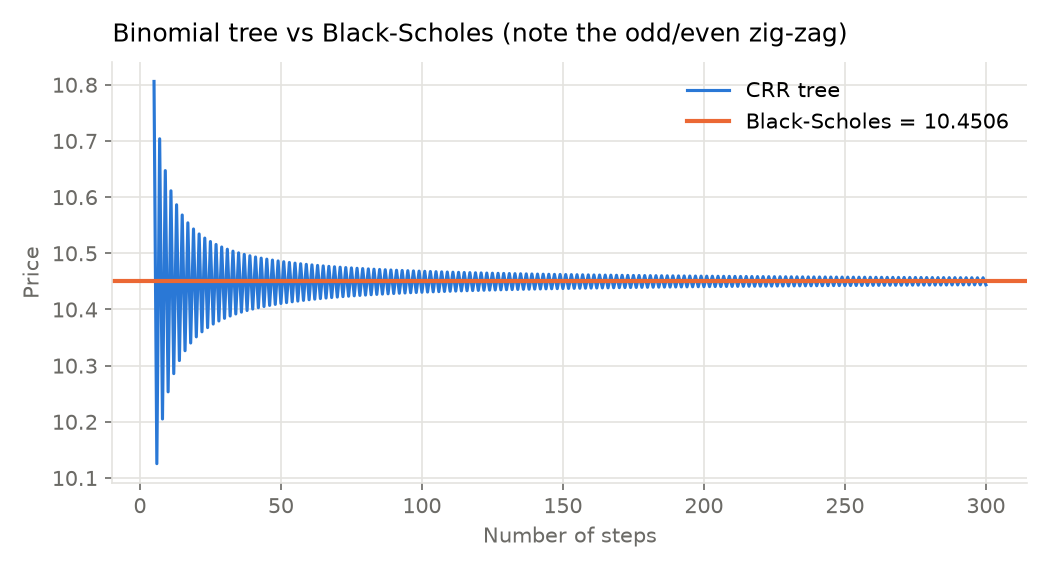
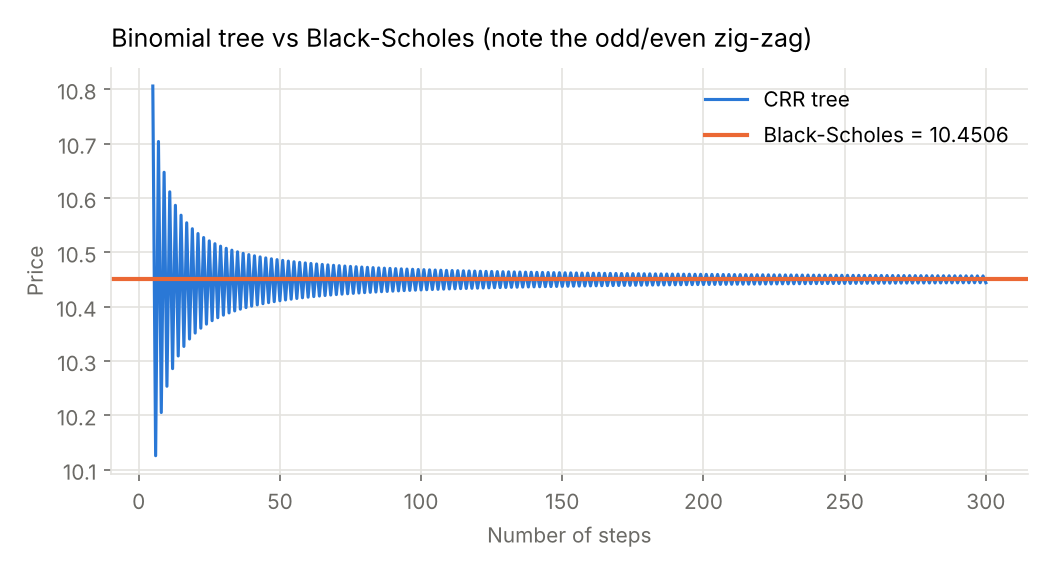
final commit with clean readme

Changed region(s): [[0.0, 0.1193, 0.9752, 0.9544], [0.0914, 0.0298, 0.8229, 0.0895]]

diff --git a/scripts/make_figures.py b/scripts/make_figures.py
@@ -15,4 +15,6 @@ out.mkdir(exist_ok=True)
 plots.mc_variance_reduction(*params, seed=42).savefig(out / "mc_variance_reduction.png", dpi=150)
 plots.binomial_convergence(*params).savefig(out / "binomial_convergence.png", dpi=150)
 plots.greeks_vs_spot(*params).savefig(out / "greeks_vs_spot.png", dpi=150)
+plots.mc_convergence(*params, seed=42).savefig(out / "mc_convergence.png", dpi=150)
+plots.price_vs_spot(*params).savefig(out / "price_vs_spot.png", dpi=150)
 print("saved plots to", out)

diff --git a/README.md b/README.md
@@ -1,1 +1,191 @@
-#options-princing-engine
+# Option Pricing Engine
+
+[![tests](https://github.com/carlmonnaert/options-pricing-engine/actions/workflows/tests.yml/badge.svg)](https://github.com/carlmonnaert/options-pricing-engine/actions/workflows/tests.yml)
+[![Open in Streamlit](https://static.streamlit.io/badges/streamlit_badge_black_white.svg)](https://YOUR-APP.streamlit.app)
+![python](https://img.shields.io/badge/python-3.10%20%7C%203.11%20%7C%203.12-blue)
+
+A small Python library that prices European and American options three independent ways, Black-Scholes, a Cox-Ross-Rubinstein binomial tree and Monte Carlo simulation, and checks that they agree. It comes with a Streamlit dashboard to play with the inputs and watch the methods converge.
+
+**Live demo:** https://YOUR-APP.streamlit.app
+
+![Variance reduction](docs/mc_variance_reduction.png)
+
+*Same number of simulated paths, two estimators. Antithetic variates plus a control variate cut the Monte Carlo variance by about 28x for an at-the-money call.*
+
+## Features
+
+- **Black-Scholes** prices and the five greeks (delta, gamma, vega, theta, rho), with a continuous dividend yield
+- **Binomial tree** (CRR), vectorised with numpy, with European or American exercise
+- **Monte Carlo** with a standard error and 95% confidence interval, plus two variance reduction techniques: antithetic variates and a control variate
+- **Finite-difference greeks** that work with any of the three pricers, used to check the analytic formulas. For Monte Carlo, the bumped prices reuse the same random numbers
+- **51 tests** run on every push, on Python 3.10 to 3.12
+- **A Streamlit app** with sliders for every input, a greeks comparison table and convergence charts
+
+No market data or API keys needed: every input is a parameter.
+
+## Do the three methods agree?
+
+Prices for a few contracts. The tree uses 1,000 steps; Monte Carlo uses 1,000,000 paths with both variance reduction techniques, shown with its standard error.
+
+| Contract (S, K, T, r, σ, q) | Black-Scholes | Binomial tree | Monte Carlo | American (tree) |
+| --- | --- | --- | --- | --- |
+| ATM call (100, 100, 1y, 5%, 20%, 0) | 10.4506 | 10.4486 | 10.4484 ± 0.0028 | 10.4486 |
+| OTM call (100, 120, 6m, 3%, 30%, 1%) | 2.6970 | 2.6980 | 2.6979 ± 0.0014 | 2.6980 |
+| ITM put (100, 120, 1y, 5%, 25%, 0) | 19.1729 | 19.1745 | 19.1727 ± 0.0015 | 21.1753 |
+| Short-dated put (50, 55, 3m, 0%, 45%, 0) | 7.6162 | 7.6168 | 7.6156 ± 0.0009 | 7.6168 |
+
+The first row is the textbook example from Hull (10.4506). Two things in the last column are worth noticing:
+
+- The American call is worth exactly the same as the European one. Without dividends, exercising a call early is never optimal.
+- The in-the-money put is worth 2.00 more as an American option: exercising early gets you the 120 strike now, and you earn 5% interest on it. In the last row the rate is zero, so there is no interest to earn by exercising early, and the American and European puts are worth the same.
+
+## Quick start
+
+```bash
+git clone https://github.com/carlmonnaert/options-pricing-engine.git
+cd options-pricing-engine
+python -m venv .venv && source .venv/bin/activate
+pip install -r requirements.txt
+
+streamlit run app.py   # dashboard at http://localhost:8501
+pytest                 # 51 passed
+```
+
+Using the library directly:
+
+```python
+from optionpricer import bs_price, bs_greeks, binomial_price, mc_price, fd_greeks
+
+bs_price(100, 100, 1.0, 0.05, 0.20, "call")                       # 10.4506
+bs_greeks(100, 100, 1.0, 0.05, 0.20, "call").delta                # 0.6368
+
+binomial_price(100, 110, 1.0, 0.08, 0.20, "put", american=True)   # 11.13
+
+res = mc_price(100, 100, 1.0, 0.05, 0.20, "call", n_path=200_000,
+               control_variate=True, seed=42)
+res.price, res.std_error, res.ci95
+
+# greeks by bump-and-reprice, here on top of Monte Carlo
+fd_greeks(100, 100, 1.0, 0.05, 0.20, "call", pricer=mc_price,
+          rel_bump=1e-2, n_path=200_000, seed=11).delta
+```
+
+Arguments are always `S, K, T, r, sigma, option_type, q`, with rates and volatility as decimals (5% is `0.05`) and `T` in years.
+
+## How it works
+
+### Black-Scholes
+
+The closed-form price of a European call with dividend yield q:
+
+$$C = S e^{-qT} N(d_1) - K e^{-rT} N(d_2), \qquad d_{1,2} = \frac{\ln(S/K) + (r - q \pm \tfrac{1}{2}\sigma^2)T}{\sigma\sqrt{T}}$$
+
+The put follows from put-call parity, $C - P = S e^{-qT} - K e^{-rT}$, which the tests check to $10^{-10}$. N(d₂) is the risk-neutral probability that the call ends in the money.
+
+![Call value vs spot](docs/price_vs_spot.png)
+
+The gap between today's value and the payoff at expiry is the option's time value.
+
+### Binomial tree
+
+Time to maturity is split into N steps. At each step the stock moves up by $u = e^{\sigma\sqrt{\Delta t}}$ or down by $d = 1/u$, with the risk-neutral probability
+
+$$p = \frac{e^{(r-q)\Delta t} - d}{u - d}$$
+
+Starting from the payoffs at expiry, each node's value is the discounted average of its two children. The whole tree is never stored: one numpy array holds the current time slice, and stepping back is a single vectorised line,
+
+```python
+values = disc * (p * values[:-1] + (1 - p) * values[1:])
+```
+
+For American options, each node also takes the larger of that value and exercising immediately. A 500-step tree prices in a couple of milliseconds.
+
+![Binomial convergence](docs/binomial_convergence.png)
+
+The price converges at rate $O(1/N)$ but zig-zags between odd and even N, because the strike falls in a different place relative to the final nodes. Averaging N and N+1 removes most of it, which is what the tests do.
+
+### Monte Carlo
+
+Under geometric Brownian motion the terminal price can be sampled directly, so European options need no time stepping:
+
+$$S_T = S \exp\left(\left(r - q - \tfrac{1}{2}\sigma^2\right)T + \sigma\sqrt{T}\,Z\right), \qquad Z \sim N(0, 1)$$
+
+The price is the discounted average payoff, and the error shrinks like $1/\sqrt{n}$: 100 times more paths for 10 times more precision.
+
+![Monte Carlo convergence](docs/mc_convergence.png)
+
+Two variance reduction techniques make it much cheaper to get a precise answer:
+
+- **Antithetic variates.** Each draw Z is paired with −Z. A high outcome and a low outcome are averaged together, so much of the noise cancels.
+- **Control variate.** The discounted terminal stock price has a known expectation, $S e^{-qT}$, and moves with the payoff. Each estimate is corrected by $\beta$ times the stock's sampling error, with $\beta = \mathrm{Cov}(X, Y) / \mathrm{Var}(X)$, which removes most of the remaining noise without adding bias.
+
+Standard error for the ATM call with 100,000 paths and the same seed:
+
+| Estimator | Std. error | Variance reduction |
+| --- | --- | --- |
+| Plain Monte Carlo | 0.0464 | 1x |
+| Antithetic variates | 0.0328 | 2.0x |
+| Control variate | 0.0177 | 6.9x |
+| Both | 0.0088 | 27.8x |
+
+### Greeks
+
+Analytic greeks come from differentiating the Black-Scholes formula. `fd_greeks` computes the same five by bumping each input up and down and repricing (central differences), so it works with any pricer. On the ATM call the two agree to better than 2 parts in a million.
+
+For Monte Carlo the bumped prices must reuse the same random numbers (same seed). Otherwise the noise between two runs is much larger than the price change being measured, and gamma in particular comes out wrong by a factor of several.
+
+![Greeks vs spot](docs/greeks_vs_spot.png)
+
+## The dashboard
+
+`streamlit run app.py` opens a page with every input in the sidebar: contract, market data, tree steps, number of paths, variance reduction switches and the random seed. It shows the price from each method, the Monte Carlo confidence interval, the early-exercise premium, a table comparing analytic and finite-difference greeks, and the charts above, updated live.
+
+Some things to try:
+
+- Turn off both variance reduction boxes and watch the confidence interval widen about 5x.
+- Go from 10,000 to 1,000,000 paths: the standard error drops 10x, not 100x.
+- Switch to a put with strike 110 and an 8% rate: the American price is about 2.3 above the European one.
+- Add a dividend yield to a call: the early-exercise premium, zero until then, becomes positive.
+
+<!-- Add a screenshot or GIF of the dashboard here: docs/app.png -->
+
+## Tests
+
+```bash
+pytest
+```
+
+The suite checks properties that must hold for any correct pricer, rather than hand-picked numbers:
+
+- Hull's textbook example and put-call parity for every method
+- No-arbitrage bounds (a call is never worth more than the stock, nor less than its intrinsic value)
+- Analytic greeks against finite differences, for calls and puts in four market regimes
+- The tree converging to Black-Scholes, and its error falling as steps increase
+- Monte Carlo within 4 standard errors of Black-Scholes, and each variance reduction technique lowering the standard error
+- American puts worth more than European ones, American calls without dividends worth the same
+- Invalid inputs rejected with a clear error
+
+GitHub Actions runs them on Python 3.10, 3.11 and 3.12 on every push.
+
+## Project structure
+
+```
+optionpricer/
+  black_scholes.py   closed-form price, analytic greeks, put-call parity check
+  binomial.py        CRR tree, European and American exercise
+  monte_carlo.py     simulation with antithetic and control variates
+  greeks.py          finite-difference greeks for any pricer
+  plots.py           charts used by the app and this README
+  _common.py         input validation and payoffs
+app.py               Streamlit dashboard
+tests/               pytest suite
+scripts/
+  make_figures.py    regenerates the images in docs/
+```
+
+## What's next
+
+- Implied volatility: invert `bs_price` with a root finder and plot the volatility smile from real option chains
+- Heston stochastic volatility, priced with the characteristic function and calibrated to the smile
+- Longstaff-Schwartz, to price American options by simulation
+- Path-dependent payoffs: barrier and Asian options
